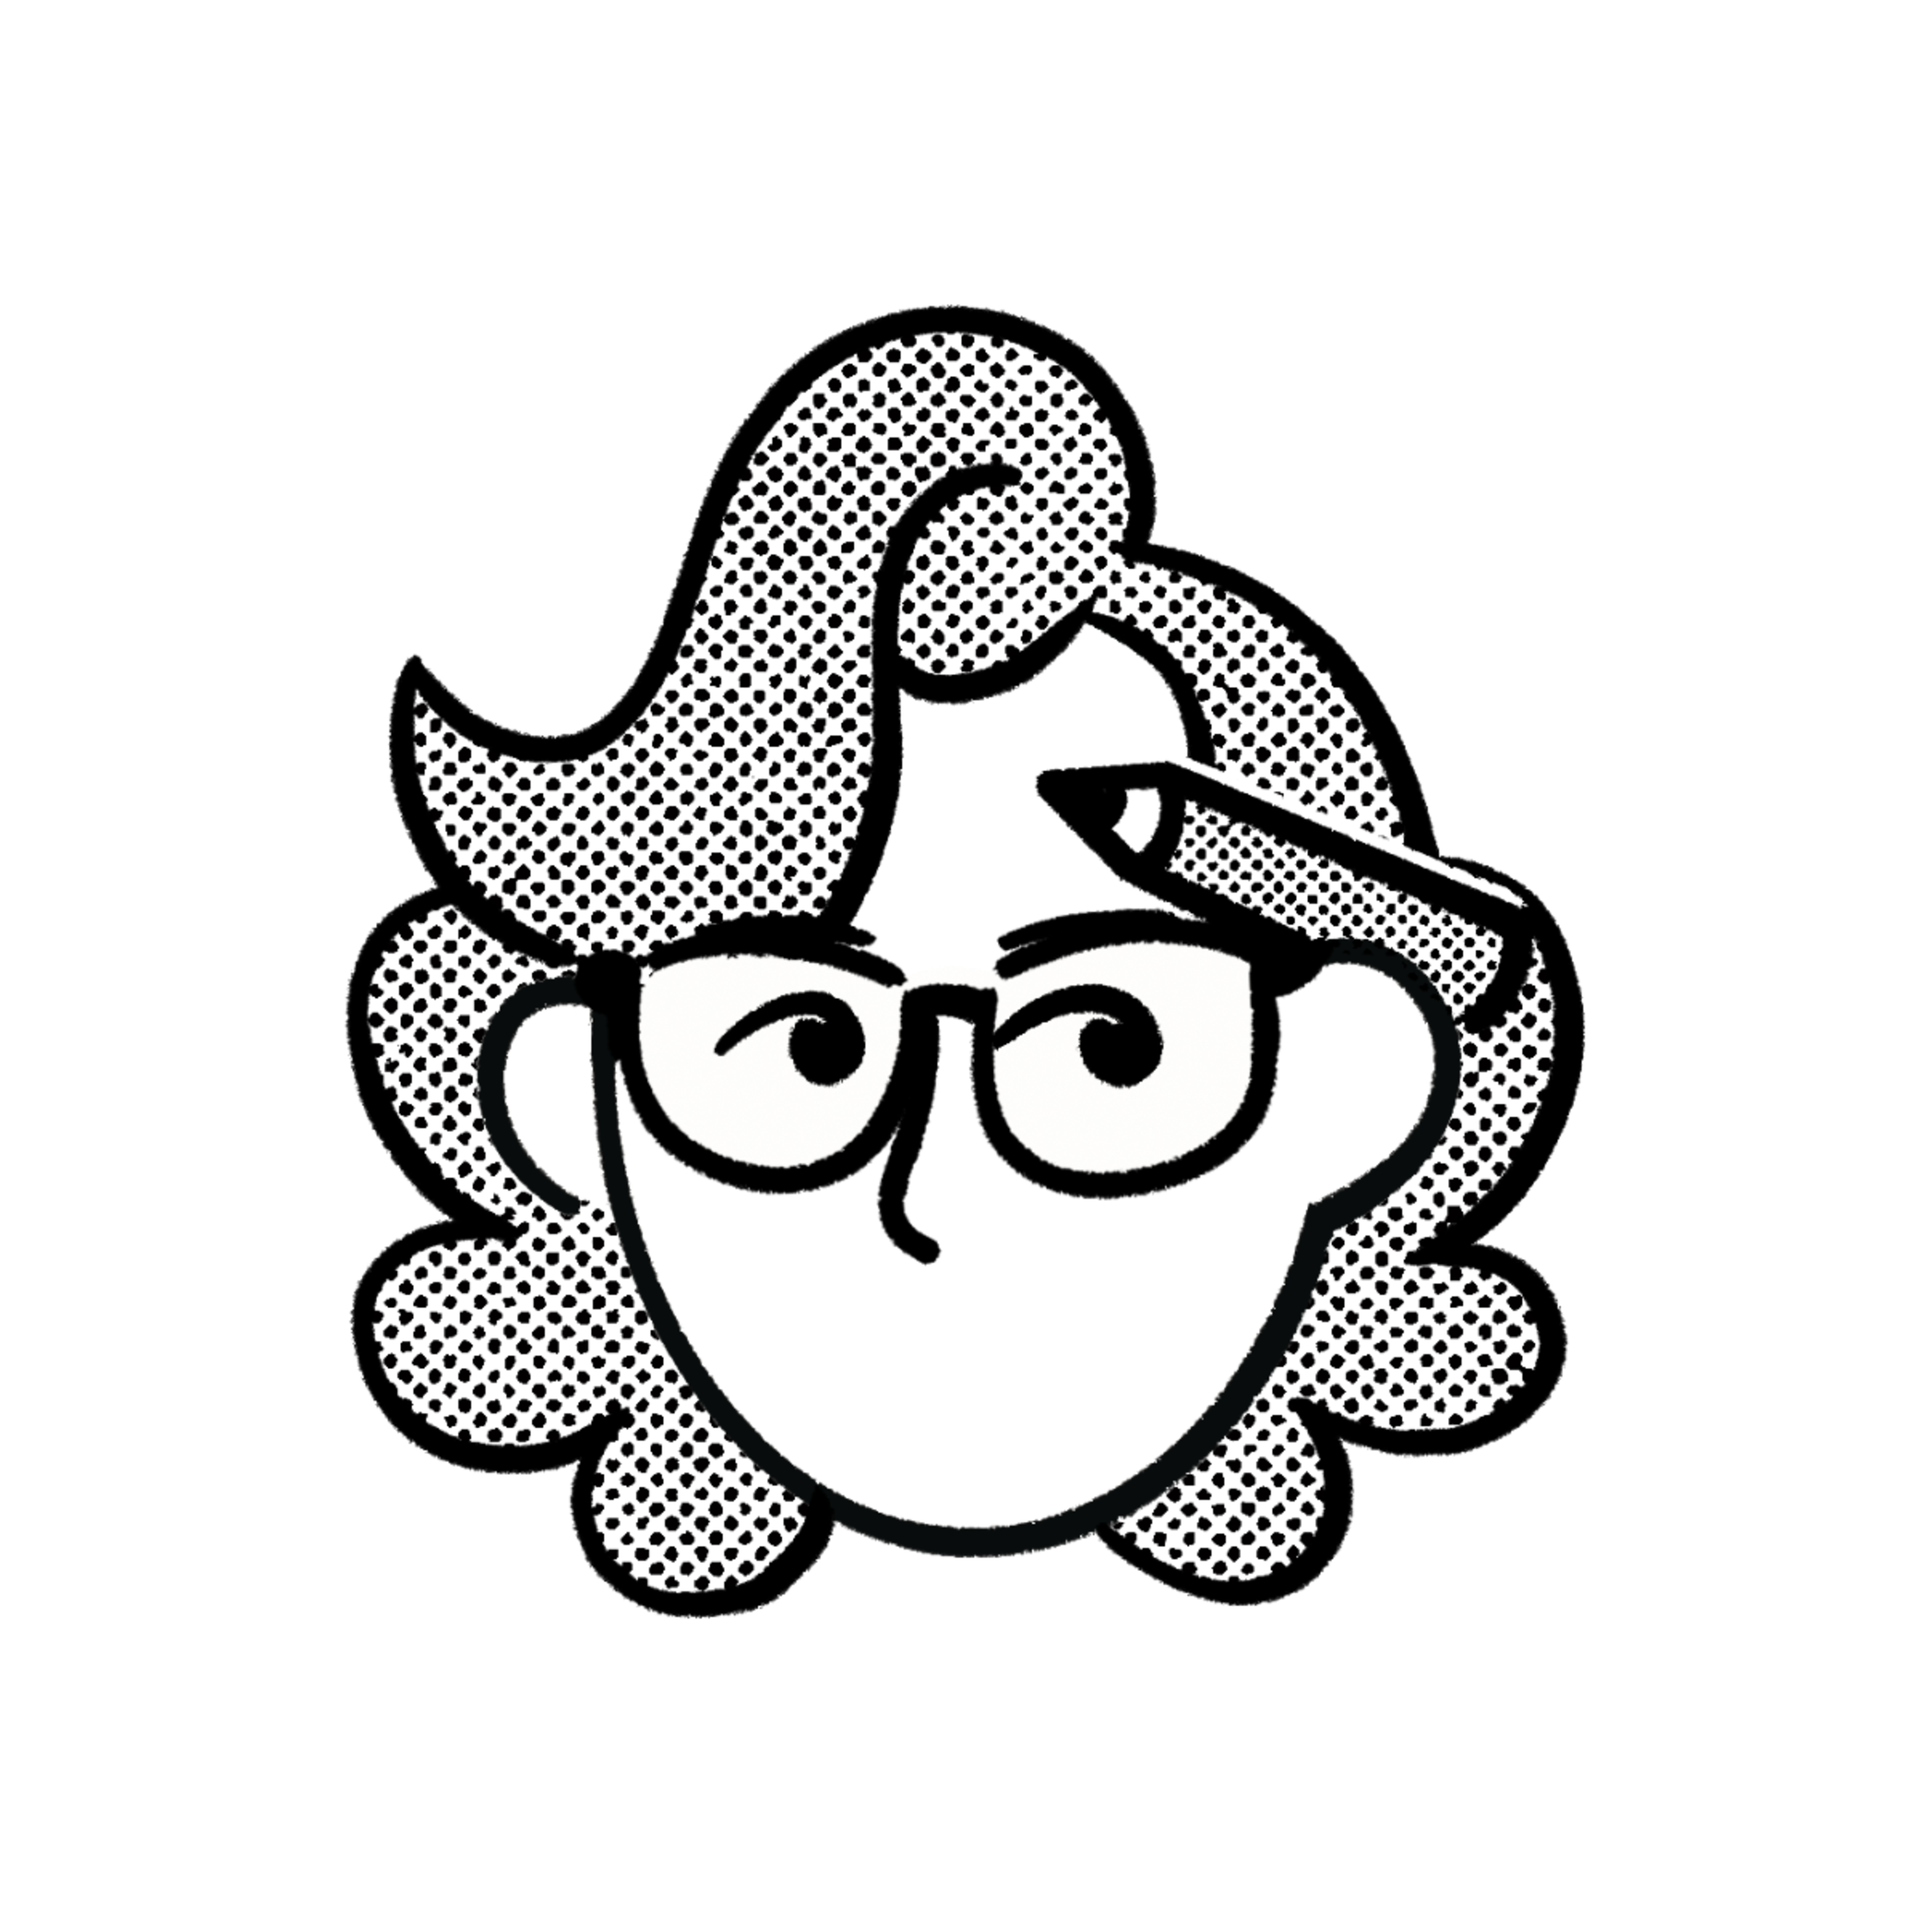
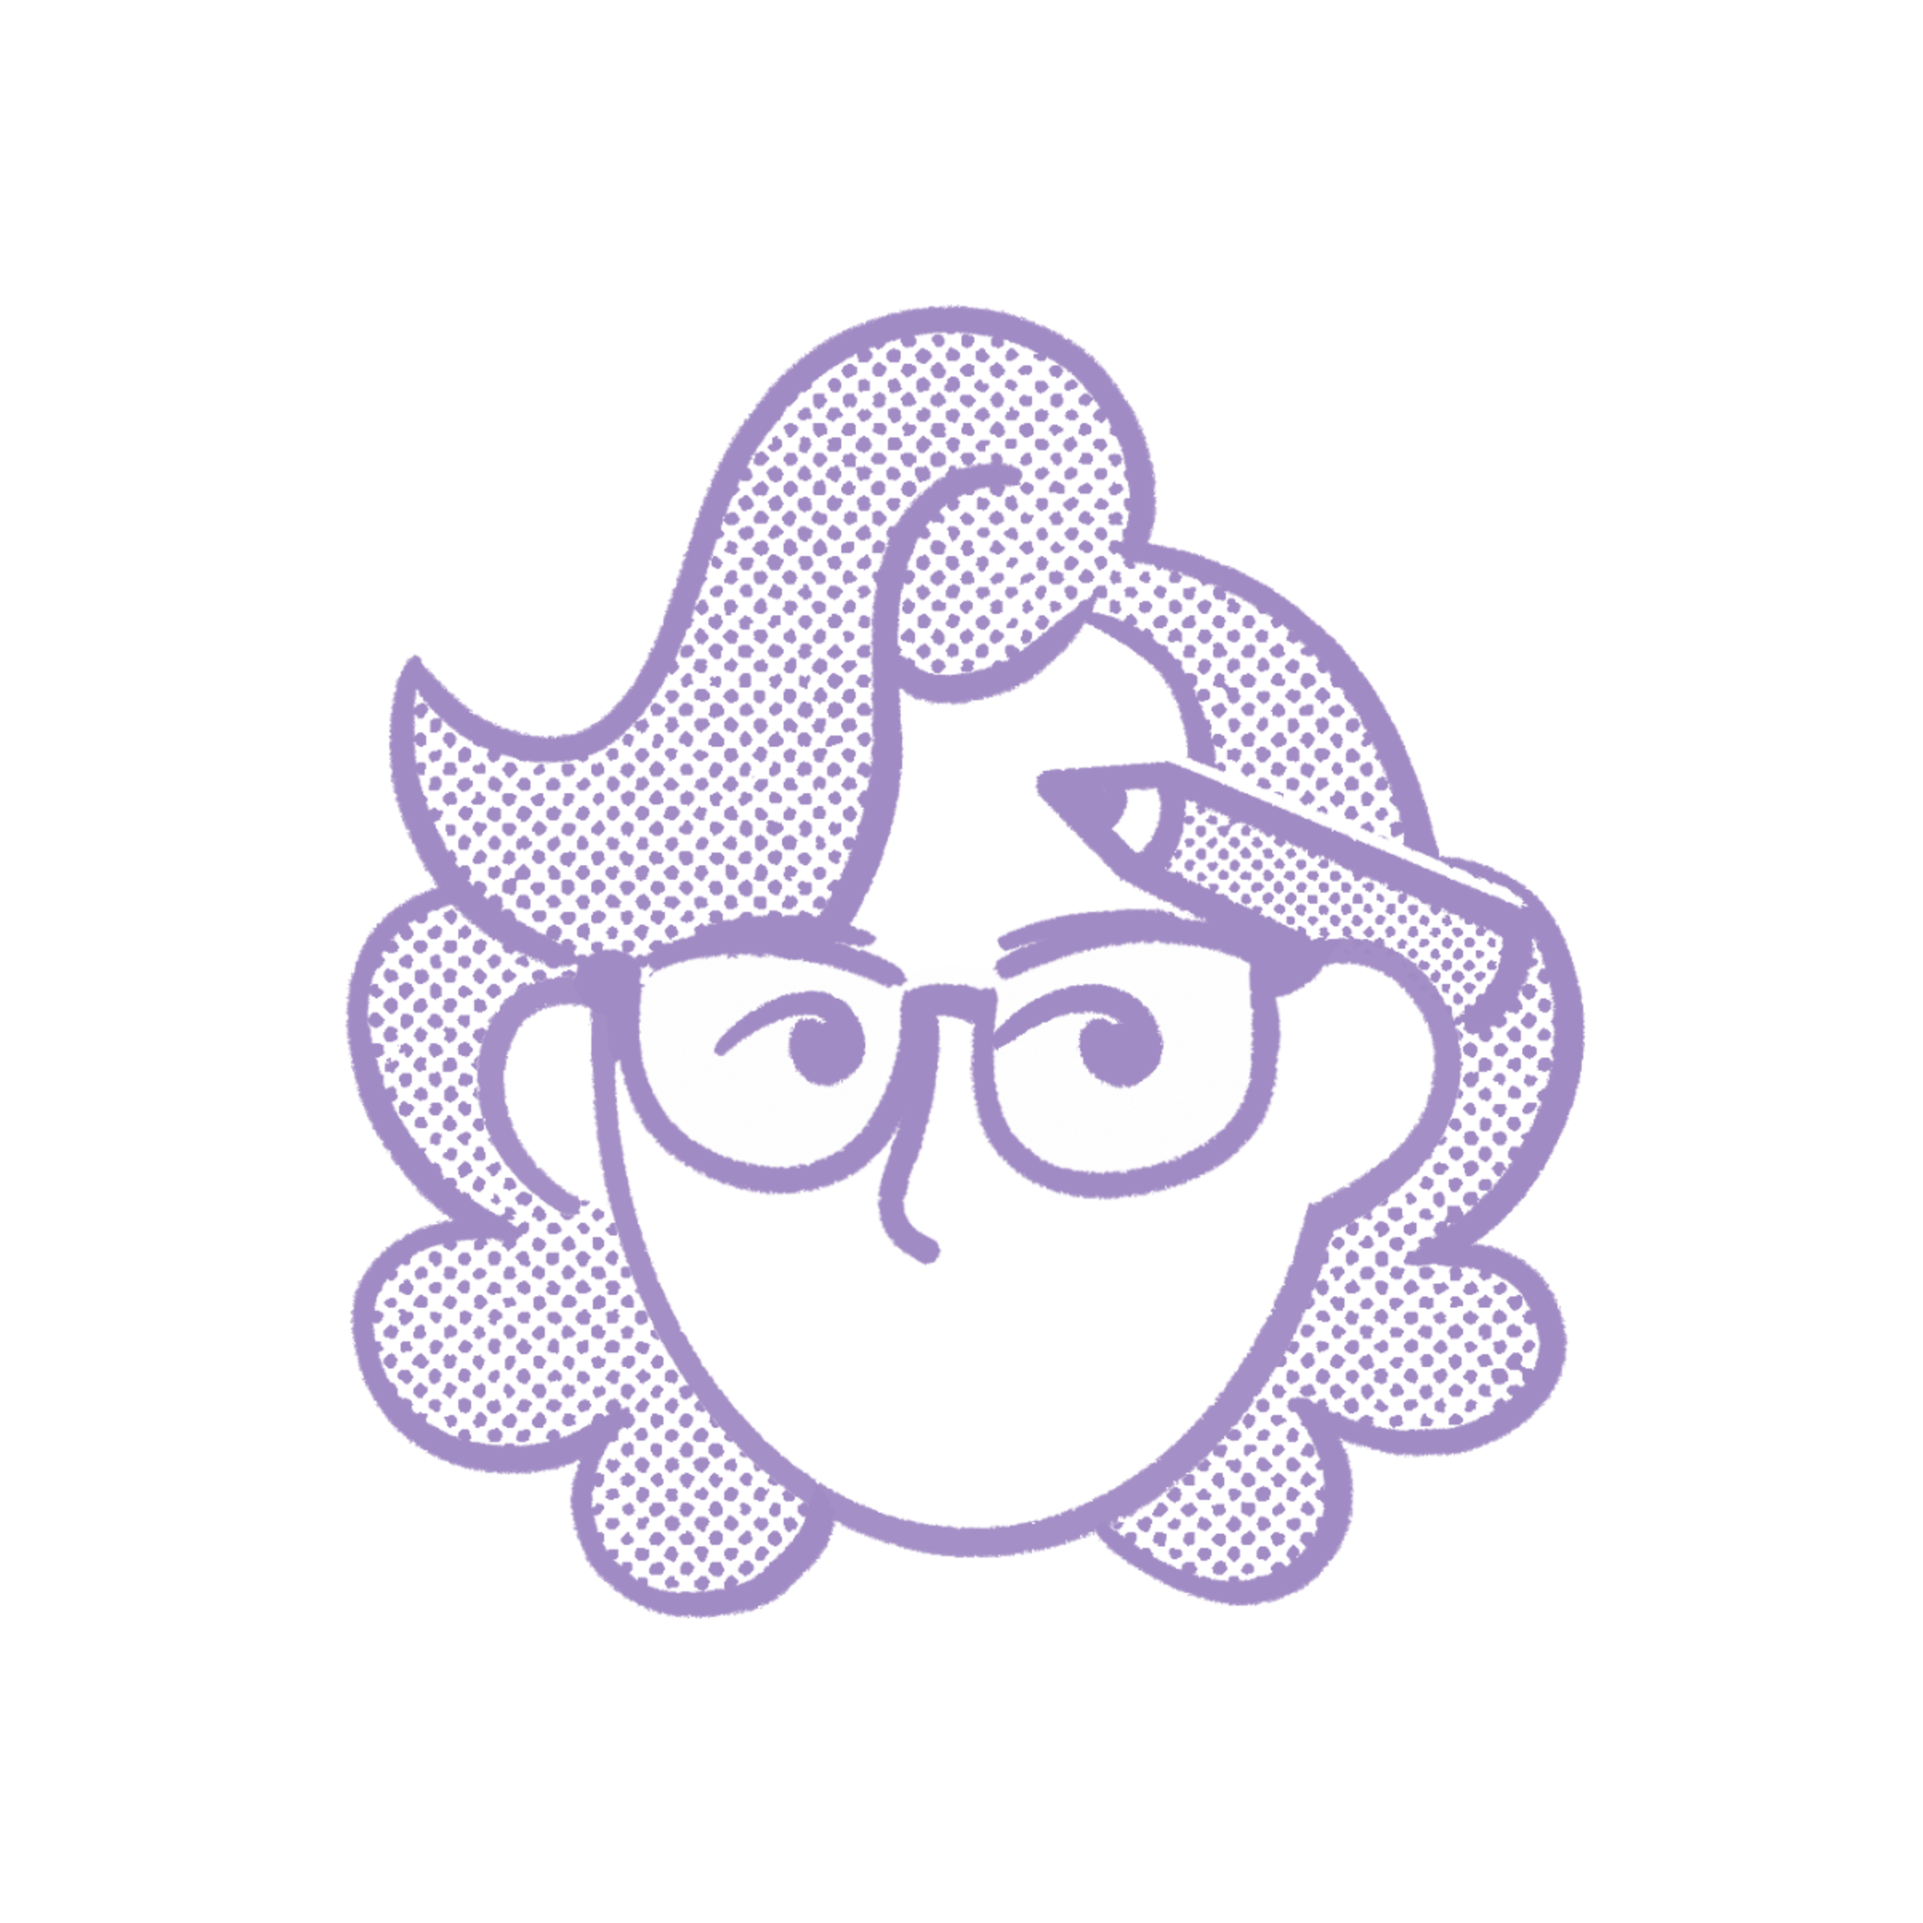
ajustes

Changed region(s): [[0.1562, 0.1562, 0.8438, 0.8438]]

diff --git a/css/style.css b/css/style.css
@@ -284,6 +284,11 @@ nav {
   grid-gap: 2cqw;
   container-type: inline-size;
 
+  .about-me img {
+    width: 30vw;
+    mix-blend-mode: color-burn;
+  }
+
   ul {
     display: flex;
     grid-gap: 6cqw;
